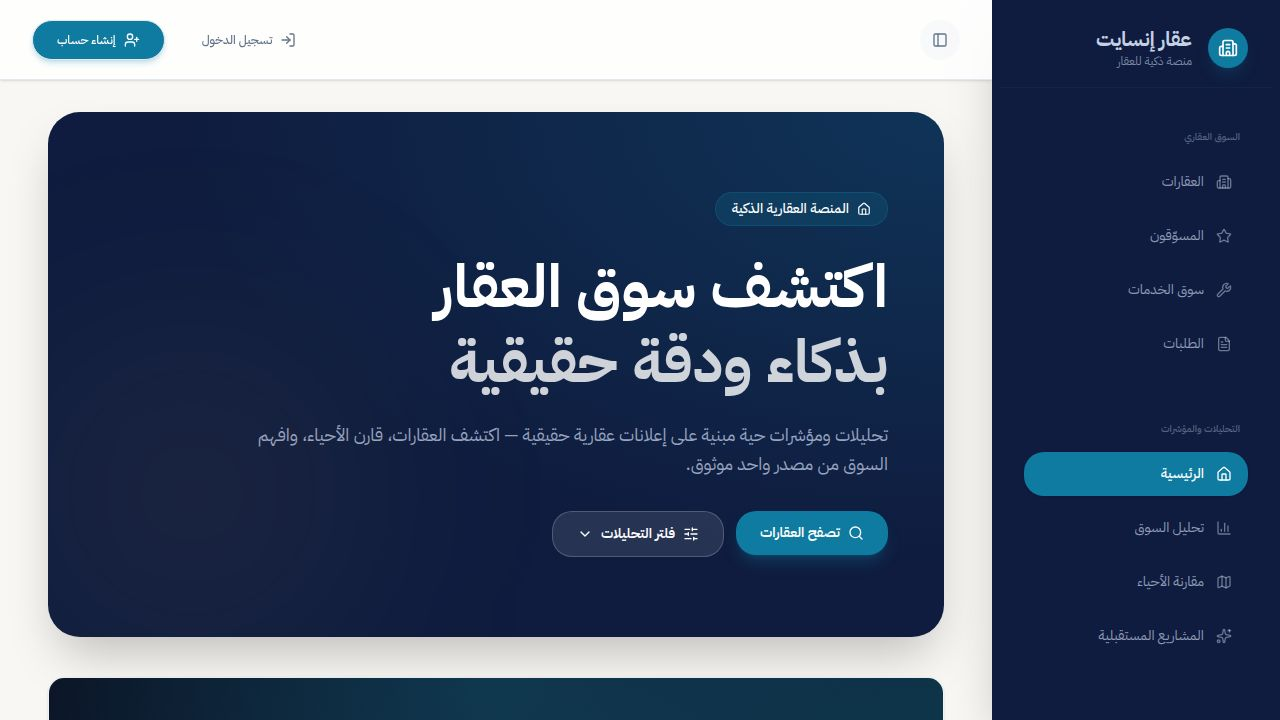
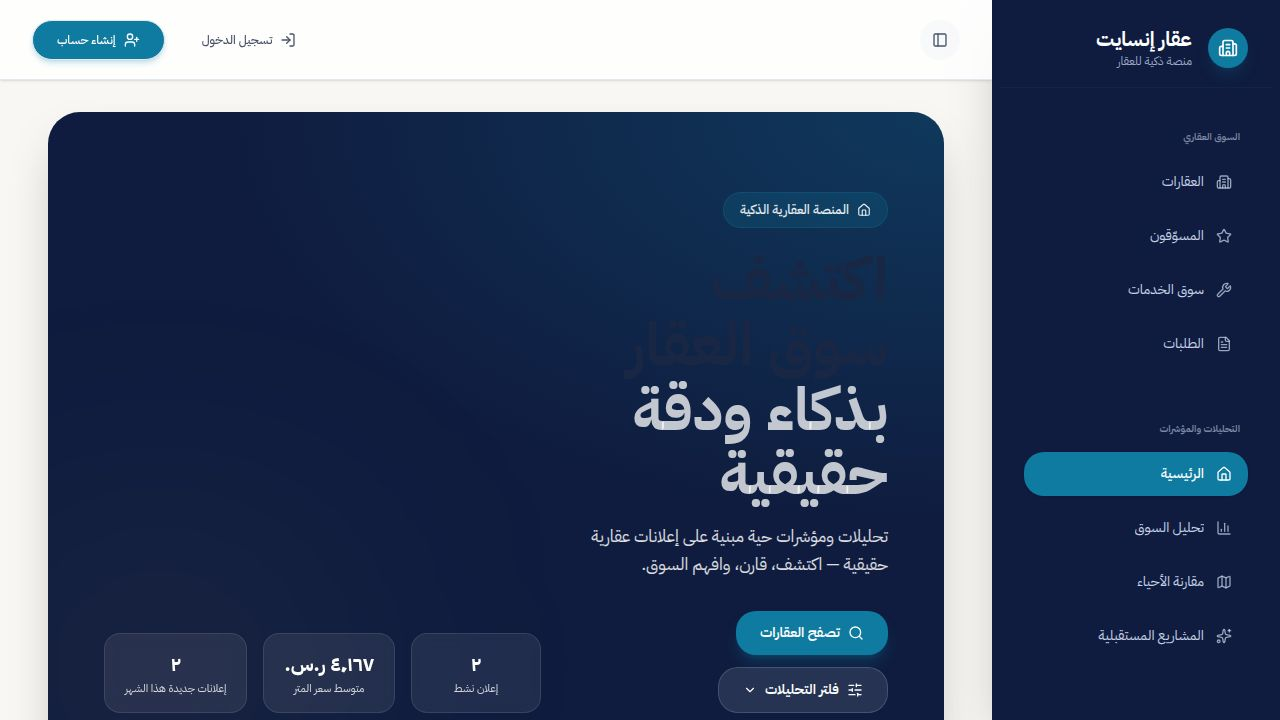
Improve readability and visual appeal across the platform
Enhance UI contrast, update hero sections with gradient backgrounds, and refine text readability on various pages to create a more premium and user-friendly experience.

Replit-Commit-Author: Agent
Replit-Commit-Session-Id: f1be056f-fc4a-4461-962c-60d03f6b6cb3
Replit-Commit-Checkpoint-Type: full_checkpoint
Replit-Commit-Event-Id: 1ee770f5-3543-4f48-b855-21f8065d9334
Replit-Commit-Screenshot-Url: https://storage.googleapis.com/screenshot-production-us-central1/24f6cca2-97a5-4cb7-90fe-09117eb86dda/f1be056f-fc4a-4461-962c-60d03f6b6cb3/fIog5Cx
Replit-Helium-Checkpoint-Created: true

diff --git a/artifacts/aqar-monitor/src/pages/marketer-dashboard.tsx b/artifacts/aqar-monitor/src/pages/marketer-dashboard.tsx
@@ -164,23 +164,24 @@ export default function MarketerDashboard() {
   return (
     <Layout>
       <div className="max-w-4xl mx-auto space-y-6 pb-12">
-        {/* Header */}
-        <div className="bg-card rounded-3xl border border-border p-6 flex flex-col sm:flex-row sm:items-center justify-between gap-4">
-          <div>
-            <h1 className="text-2xl font-extrabold text-foreground flex items-center gap-2">
-              <Star className="w-6 h-6 text-accent" />
-              لوحة المسوّق العقاري
-            </h1>
-            <p className="text-muted-foreground mt-1">
-              أهلاً {user?.fullName ?? user?.username} —
-              {profile.verified ? (
-                <span className="mr-2 text-primary font-semibold inline-flex items-center gap-1"><BadgeCheck className="w-4 h-4" />حساب موثّق</span>
-              ) : (
-                <span className="mr-2 text-muted-foreground text-sm">في انتظار التوثيق</span>
-              )}
+        {/* Header Hero */}
+        <div
+          className="relative rounded-[2rem] overflow-hidden p-8 md:p-10 flex flex-col sm:flex-row sm:items-center justify-between gap-6"
+          style={{ background: "linear-gradient(135deg, #0F1C3F 0%, #0F1C3F 60%, #0F7BA0 100%)" }}
+        >
+          <div className="absolute inset-0 bg-[radial-gradient(ellipse_60%_80%_at_top_right,rgba(201,168,76,0.12),transparent)] pointer-events-none" />
+          <div className="relative z-10">
+            <div className="inline-flex items-center gap-2 bg-accent/15 border border-accent/25 text-accent px-3 py-1 rounded-full text-xs font-semibold mb-3">
+              <Star className="w-3.5 h-3.5" />
+              مسوّق عقاري
+              {profile.verified && <BadgeCheck className="w-3.5 h-3.5" />}
+            </div>
+            <h1 className="text-3xl font-extrabold text-white leading-tight">لوحة المسوّق العقاري</h1>
+            <p className="text-white/75 mt-2 text-sm">
+              أهلاً {user?.fullName ?? user?.username} — {profile.verified ? "حساب موثّق ✓" : "في انتظار التوثيق"}
             </p>
           </div>
-          <Button asChild className="rounded-xl gap-2 shrink-0">
+          <Button asChild className="relative z-10 rounded-xl gap-2 shrink-0 bg-white/10 hover:bg-white/20 border border-white/20 text-white font-bold shadow-none">
             <Link href="/listings/new"><Plus className="w-4 h-4" />نشر إعلان جديد</Link>
           </Button>
         </div>

diff --git a/artifacts/aqar-monitor/src/pages/future.tsx b/artifacts/aqar-monitor/src/pages/future.tsx
@@ -7,7 +7,8 @@ import {
   MessageSquareText, 
   Map, 
   Star,
-  Lock
+  Lock,
+  Sparkles
 } from "lucide-react";
 import { motion } from "framer-motion";
 
@@ -71,12 +72,21 @@ export default function Future() {
   return (
     <Layout>
       <div className="space-y-8 pb-12">
-        <div className="text-center max-w-2xl mx-auto py-8">
-          <Badge variant="outline" className="mb-4 px-4 py-1 text-primary border-primary/30 bg-primary/5">خارطة الطريق</Badge>
-          <h1 className="text-4xl font-bold text-foreground mb-4 tracking-tight">الوحدات المستقبلية القادمة</h1>
-          <p className="text-lg text-muted-foreground">
-            نعمل في "عقار إنسايت" على تطوير أدوات متقدمة مدعومة بالذكاء الاصطناعي لتمكين المستثمرين من اتخاذ قرارات مبنية على بيانات موثوقة.
-          </p>
+        <div
+          className="relative rounded-[2rem] overflow-hidden p-8 md:p-14 text-center"
+          style={{ background: "linear-gradient(135deg, #0F1C3F 0%, #0F1C3F 55%, #0F7BA0 100%)" }}
+        >
+          <div className="absolute inset-0 bg-[radial-gradient(ellipse_60%_80%_at_center,rgba(15,123,160,0.3),transparent)] pointer-events-none" />
+          <div className="relative z-10 max-w-2xl mx-auto">
+            <span className="inline-flex items-center gap-2 bg-primary/20 border border-primary/25 text-white/90 px-3 py-1 rounded-full text-xs font-semibold mb-4">
+              <Star className="w-3.5 h-3.5" />
+              خارطة الطريق
+            </span>
+            <h1 className="text-4xl font-extrabold text-white mb-4 tracking-tight">الوحدات المستقبلية القادمة</h1>
+            <p className="text-lg text-white/80 leading-relaxed">
+              نعمل في "عقار إنسايت" على تطوير أدوات متقدمة مدعومة بالذكاء الاصطناعي لتمكين المستثمرين من اتخاذ قرارات مبنية على بيانات موثوقة.
+            </p>
+          </div>
         </div>
 
         <motion.div 

diff --git a/artifacts/aqar-monitor/src/pages/requests.tsx b/artifacts/aqar-monitor/src/pages/requests.tsx
@@ -58,23 +58,31 @@ export default function Requests() {
   return (
     <Layout>
       <div className="space-y-8 pb-12 max-w-5xl mx-auto">
-        {/* Header */}
-        <div className="flex flex-col sm:flex-row items-start sm:items-center justify-between gap-6 bg-card p-8 rounded-3xl border border-border shadow-sm">
-          <div>
-            <h1 className="text-3xl md:text-4xl font-extrabold text-foreground mb-2">سوق الطلبات</h1>
-            <p className="text-lg text-muted-foreground">تصفح طلبات العملاء أو انشر طلبك للبحث عن عقار أو خدمة</p>
+        {/* Header Hero */}
+        <div
+          className="relative rounded-[2rem] overflow-hidden p-8 md:p-12 flex flex-col sm:flex-row sm:items-center justify-between gap-6"
+          style={{ background: "linear-gradient(135deg, #0F1C3F 0%, #0F1C3F 55%, #0F7BA0 100%)" }}
+        >
+          <div className="absolute inset-0 bg-[radial-gradient(ellipse_70%_90%_at_top_right,rgba(201,168,76,0.12),transparent)] pointer-events-none" />
+          <div className="relative z-10">
+            <div className="inline-flex items-center gap-2 bg-white/10 border border-white/15 text-white/90 px-3 py-1 rounded-full text-xs font-semibold mb-3">
+              <FileText className="w-3.5 h-3.5" />
+              طلبات عقارية مفتوحة
+            </div>
+            <h1 className="text-3xl md:text-4xl font-extrabold text-white leading-tight">سوق الطلبات</h1>
+            <p className="text-white/80 mt-2 text-base font-medium">تصفح طلبات العملاء أو انشر طلبك للبحث عن عقار أو خدمة</p>
           </div>
           {isAuthenticated ? (
-            <Button asChild size="lg" className="gap-2 rounded-2xl h-14 px-8 shadow-lg shadow-primary/20 shrink-0 text-base font-bold">
+            <Button asChild size="lg" className="relative z-10 gap-2 rounded-xl h-12 px-8 shrink-0 text-base font-bold bg-white/10 hover:bg-white/20 border border-white/20 text-white shadow-none">
               <Link href="/requests/new">
                 <PlusCircle className="w-5 h-5" />
                 اطلب الآن
               </Link>
             </Button>
           ) : (
-             <Button asChild size="lg" variant="outline" className="gap-2 rounded-2xl h-14 px-8 shrink-0 text-base font-bold border-border">
+            <Button asChild size="lg" className="relative z-10 gap-2 rounded-xl h-12 px-8 shrink-0 text-base font-bold bg-white/10 hover:bg-white/20 border border-white/20 text-white shadow-none">
               <Link href="/signup">
-                سجل حساب للطلب
+                سجل حساباً
               </Link>
             </Button>
           )}

diff --git a/artifacts/aqar-monitor/src/pages/listings.tsx b/artifacts/aqar-monitor/src/pages/listings.tsx
@@ -97,16 +97,24 @@ export default function Listings() {
   return (
     <Layout>
       <div className="space-y-8 pb-12">
-        {/* Header */}
-        <div className="flex flex-col sm:flex-row items-start sm:items-center justify-between gap-4 bg-card p-6 md:p-8 rounded-3xl premium-shadow border border-border">
-          <div>
-            <h1 className="text-3xl md:text-4xl font-extrabold text-foreground">تصفح العقارات</h1>
-            <p className="text-muted-foreground mt-2 text-lg font-medium">
+        {/* Header Hero */}
+        <div
+          className="relative rounded-[2rem] overflow-hidden p-8 md:p-12 flex flex-col sm:flex-row sm:items-center justify-between gap-6"
+          style={{ background: "linear-gradient(135deg, #0F1C3F 0%, #0F1C3F 60%, #0F7BA0 100%)" }}
+        >
+          <div className="absolute inset-0 bg-[radial-gradient(ellipse_60%_80%_at_top_left,rgba(15,123,160,0.25),transparent)] pointer-events-none" />
+          <div className="relative z-10">
+            <div className="inline-flex items-center gap-2 bg-primary/20 border border-primary/25 text-white/90 px-3 py-1 rounded-full text-xs font-semibold mb-3">
+              <Building2 className="w-3.5 h-3.5" />
+              سوق العقارات السعودي
+            </div>
+            <h1 className="text-3xl md:text-4xl font-extrabold text-white leading-tight">تصفح العقارات</h1>
+            <p className="text-white/80 mt-2 text-base font-medium">
               {data ? `${data.total.toLocaleString("ar-SA")} عقار متاح حالياً` : "جارٍ تحميل العقارات…"}
             </p>
           </div>
           {isAuthenticated && (
-            <Button asChild size="lg" className="gap-2 rounded-xl shadow-lg shadow-primary/20 shrink-0 whitespace-nowrap px-8">
+            <Button asChild size="lg" className="relative z-10 gap-2 rounded-xl shrink-0 whitespace-nowrap px-8 bg-white/10 hover:bg-white/20 border border-white/20 text-white font-bold shadow-none">
               <Link href="/listings/new">
                 <PlusCircle className="w-5 h-5" />
                 نشر إعلان عقاري

diff --git a/artifacts/aqar-monitor/src/pages/dashboard.tsx b/artifacts/aqar-monitor/src/pages/dashboard.tsx
@@ -81,13 +81,18 @@ export default function Dashboard() {
   return (
     <Layout>
       <div className="space-y-8 pb-12">
-        {/* Header */}
-        <div className="flex items-start justify-between">
-          <div>
-            <h1 className="text-4xl font-extrabold text-foreground tracking-tight">لوحتي العقارية</h1>
-            <p className="text-lg text-muted-foreground mt-2">مرحباً بك، {user?.fullName ?? user?.username}</p>
+        {/* Header Hero */}
+        <div
+          className="relative rounded-[2rem] overflow-hidden p-8 md:p-10 flex flex-col sm:flex-row sm:items-center justify-between gap-6"
+          style={{ background: "linear-gradient(135deg, #0F1C3F 0%, #0F1C3F 65%, #0F7BA0 100%)" }}
+        >
+          <div className="absolute inset-0 bg-[radial-gradient(ellipse_80%_100%_at_top_left,rgba(15,123,160,0.2),transparent)] pointer-events-none" />
+          <div className="relative z-10">
+            <p className="text-white/70 text-sm font-medium mb-1">مرحباً بك،</p>
+            <h1 className="text-3xl md:text-4xl font-extrabold text-white leading-tight">{user?.fullName ?? user?.username}</h1>
+            <p className="text-white/75 mt-2 text-sm">لوحتك العقارية الشخصية — أدِر إعلاناتك، مفضلتك، وطلباتك</p>
           </div>
-          <Button asChild className="gap-2 rounded-xl h-12 px-6 shadow-lg shadow-primary/20">
+          <Button asChild className="relative z-10 gap-2 rounded-xl h-12 px-6 shrink-0 bg-white/10 hover:bg-white/20 border border-white/20 text-white font-bold shadow-none">
             <Link href="/listings/new"><PlusCircle className="w-5 h-5" />نشر إعلان جديد</Link>
           </Button>
         </div>

diff --git a/artifacts/aqar-monitor/src/pages/signup.tsx b/artifacts/aqar-monitor/src/pages/signup.tsx
@@ -120,7 +120,7 @@ export default function Signup() {
                   dir="ltr"
                 />
               </div>
-              <p className="text-xs text-muted-foreground/70">
+              <p className="text-xs text-muted-foreground">
                 أحرف إنجليزية وأرقام وشرطة سفلية فقط
               </p>
             </div>
@@ -175,7 +175,7 @@ export default function Signup() {
                   {showPassword ? <EyeOff className="w-4 h-4" /> : <Eye className="w-4 h-4" />}
                 </button>
               </div>
-              <p className="text-xs text-muted-foreground/70">8 أحرف على الأقل</p>
+              <p className="text-xs text-muted-foreground">8 أحرف على الأقل</p>
             </div>
 
             {/* Error */}
@@ -218,7 +218,7 @@ export default function Signup() {
           </p>
         </div>
 
-        <p className="text-center text-xs text-muted-foreground/60">
+        <p className="text-center text-xs text-muted-foreground/80">
           © {new Date().getFullYear()} عقار إنسايت — جميع الحقوق محفوظة
         </p>
       </div>

diff --git a/artifacts/aqar-monitor/src/pages/home.tsx b/artifacts/aqar-monitor/src/pages/home.tsx
@@ -122,7 +122,7 @@ function KpiCard({
         </div>
         <div className="text-[1.6rem] font-extrabold text-foreground leading-none mb-1.5 tabular-nums">{value}</div>
         <div className="text-[13px] font-medium text-muted-foreground">{title}</div>
-        {sub && <div className="text-[11px] text-muted-foreground/70 mt-1">{sub}</div>}
+        {sub && <div className="text-[11px] text-muted-foreground mt-1">{sub}</div>}
       </CardContent>
     </Card>
   );
@@ -790,7 +790,7 @@ export default function Home() {
                   <Building2 className="w-8 h-8 mb-4 opacity-70 group-hover:opacity-100 transition-opacity" />
                   <h3 className="font-bold text-lg mb-1.5">أضف عقارك</h3>
                   <p className="text-[13px] text-white/80 mb-4">انشر إعلانك وتواصل مع آلاف المهتمين على المنصة</p>
-                  <div className="flex items-center gap-1.5 text-[13px] font-bold text-primary">
+                  <div className="flex items-center gap-1.5 text-[13px] font-bold text-white/90 group-hover:text-white transition-colors">
                     ابدأ الآن <ArrowLeft className="w-4 h-4" />
                   </div>
                 </div>

diff --git a/artifacts/aqar-monitor/src/pages/reset-password.tsx b/artifacts/aqar-monitor/src/pages/reset-password.tsx
@@ -273,7 +273,7 @@ export default function ResetPassword() {
           )}
         </div>
 
-        <p className="text-center text-xs text-muted-foreground/60">
+        <p className="text-center text-xs text-muted-foreground/80">
           © {new Date().getFullYear()} عقار إنسايت — جميع الحقوق محفوظة
         </p>
       </div>
@@ -284,7 +284,7 @@ export default function ResetPassword() {
 function StrengthRow({ met, label }: { met: boolean; label: string }) {
   return (
     <div className="flex items-center gap-2">
-      <span className={`w-4 h-4 rounded-full flex items-center justify-center text-[10px] font-bold ${met ? "bg-green-100 text-green-600" : "bg-muted text-muted-foreground/40"}`}>
+      <span className={`w-4 h-4 rounded-full flex items-center justify-center text-[10px] font-bold ${met ? "bg-green-100 text-green-600" : "bg-muted text-muted-foreground"}`}>
         {met ? "✓" : "○"}
       </span>
       <span className={`text-xs ${met ? "text-green-700" : "text-muted-foreground"}`}>{label}</span>

diff --git a/artifacts/aqar-monitor/src/pages/account.tsx b/artifacts/aqar-monitor/src/pages/account.tsx
@@ -386,7 +386,7 @@ function PasswordField({
           {show ? <EyeOff className="w-4 h-4" /> : <Eye className="w-4 h-4" />}
         </button>
       </div>
-      {hint && <p className="text-xs text-muted-foreground/70">{hint}</p>}
+      {hint && <p className="text-xs text-muted-foreground">{hint}</p>}
     </div>
   );
 }

diff --git a/artifacts/aqar-monitor/src/pages/forgot-password.tsx b/artifacts/aqar-monitor/src/pages/forgot-password.tsx
@@ -163,7 +163,7 @@ export default function ForgotPassword() {
           </div>
         </div>
 
-        <p className="text-center text-xs text-muted-foreground/60">
+        <p className="text-center text-xs text-muted-foreground/80">
           © {new Date().getFullYear()} عقار إنسايت — جميع الحقوق محفوظة
         </p>
       </div>

diff --git a/artifacts/aqar-monitor/src/pages/login.tsx b/artifacts/aqar-monitor/src/pages/login.tsx
@@ -157,7 +157,7 @@ export default function Login() {
           </p>
         </div>
 
-        <p className="text-center text-xs text-muted-foreground/60">
+        <p className="text-center text-xs text-muted-foreground/80">
           © {new Date().getFullYear()} عقار إنسايت — جميع الحقوق محفوظة
         </p>
       </div>

diff --git a/artifacts/aqar-monitor/src/pages/marketers.tsx b/artifacts/aqar-monitor/src/pages/marketers.tsx
@@ -119,7 +119,7 @@ export default function Marketers() {
             <Users className="w-8 h-8 text-white/80" />
             <h1 className="text-3xl font-extrabold">دليل المسوّقين العقاريين</h1>
           </div>
-          <p className="relative z-10 text-white/70 text-lg max-w-2xl">
+          <p className="relative z-10 text-white/85 text-lg max-w-2xl">
             تصفح كوكبة من أفضل المسوّقين العقاريين المحترفين، واطّلع على كتالوج عقاراتهم
           </p>
         </div>